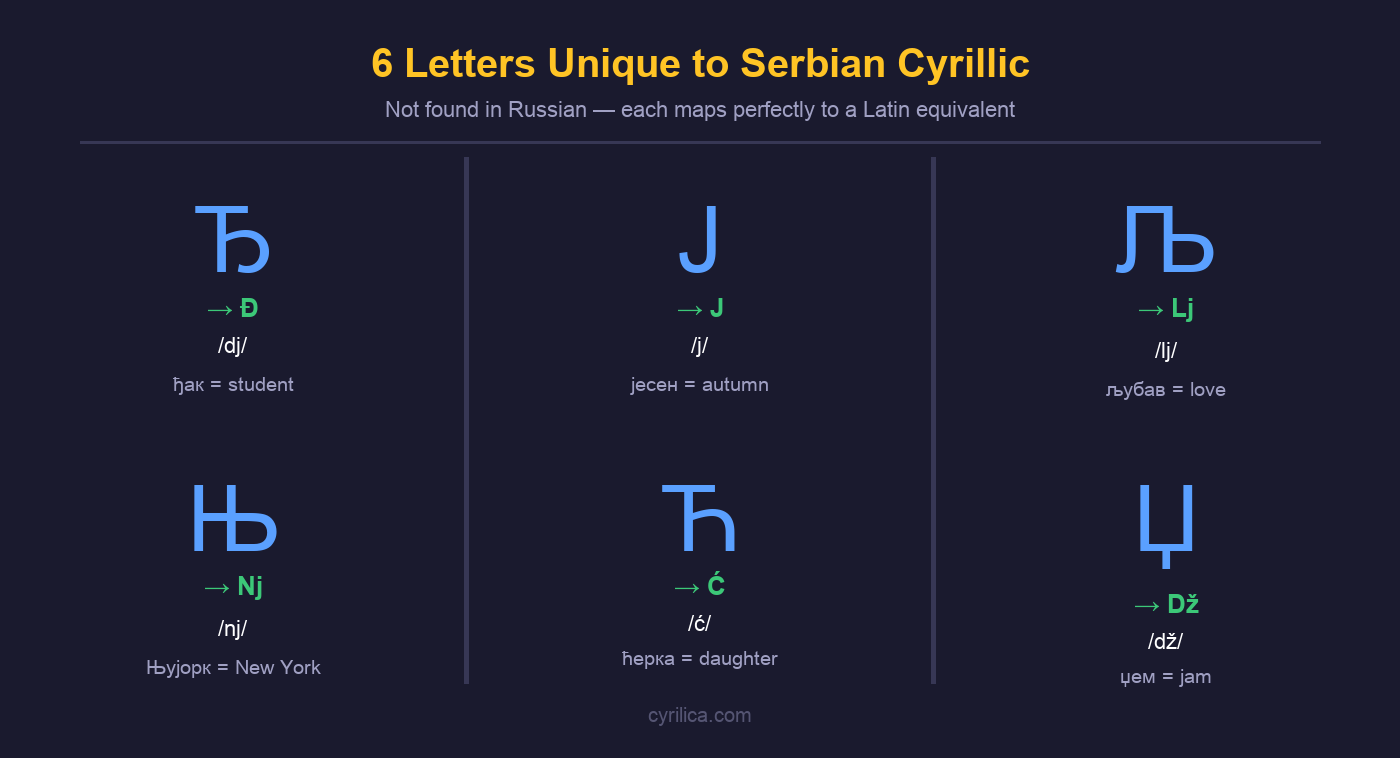
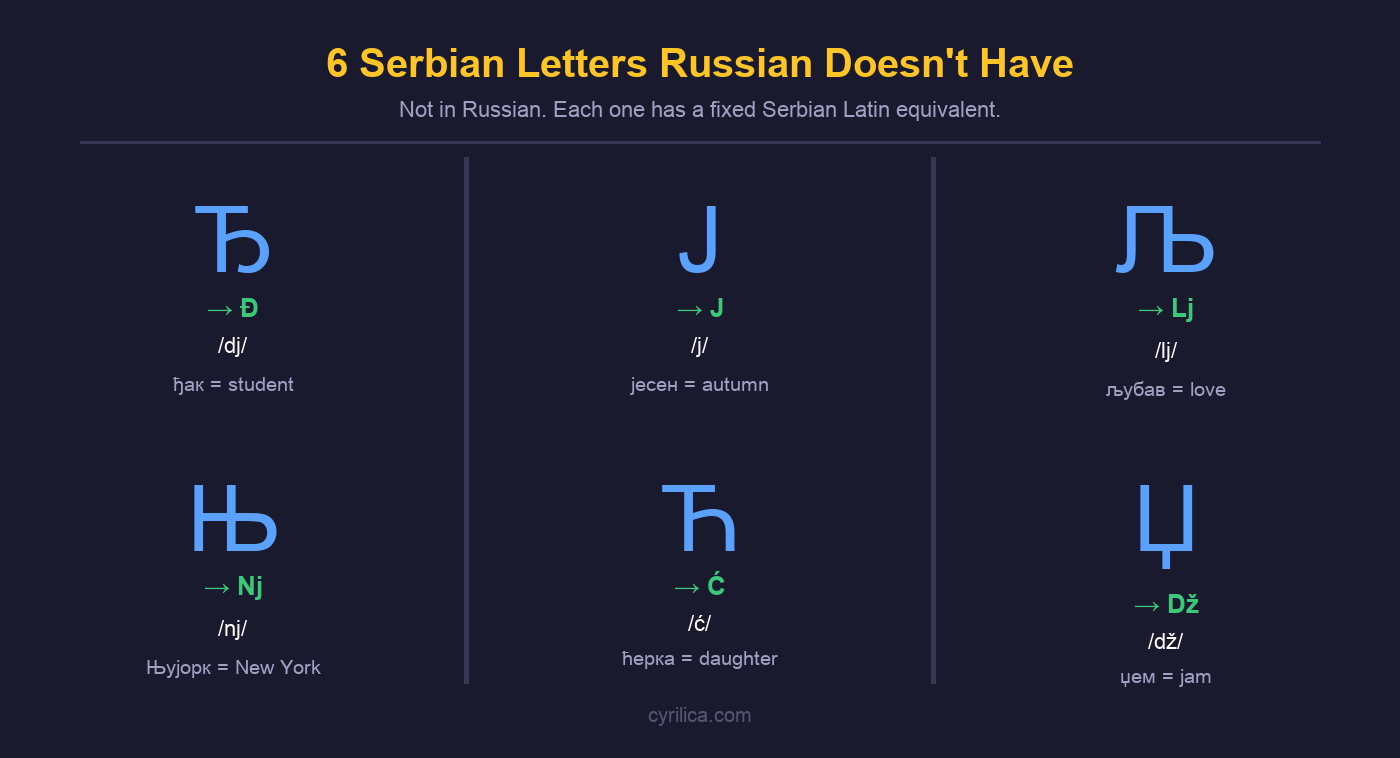
fix(images): correct baked-in claims in the four scripted images
Text baked into the comparison PNGs cannot be reached by grep, so several
claims the prose had already corrected were still being shown to readers.

ukrainian-vs-russian-alphabet.png
- "Letters that make Ukrainian unique" -> "The four letters each alphabet
  has that the other doesn't". Only Ґ is close to Ukrainian-only; Є, І and
  Ї appear in other Cyrillic alphabets.
- Column header "ONLY IN UKRAINIAN" -> "NOT IN RUSSIAN", mirroring the
  facing "NOT IN UKRAINIAN" and dropping the same overclaim.
- "Russian: об'єкт" -> "Russian: объект". The old string printed the
  Ukrainian apostrophe spelling under the Russian hard sign, contradicting
  the article's own "Russian объект becomes Ukrainian об'єкт". Source:
  Wiktionary, объект.
- "4 letters differ" -> "4 letters differ each way". The image shows four
  on each side, so eight differ in total.

serbian-cyrillic-vs-latin.png
- "Serbia officially recognizes both scripts — the only country to do so"
  -> "Serbia's constitution puts Cyrillic into official use. Latin is used
  alongside it every day." The old claim was removed from the prose in
  Batch 17 and contradicts the article. Sources: Constitution of Serbia
  Article 10, cited in the article; the article's own "In daily life,
  though, they work as interchangeable."
- "Belgrade — capital city" -> "Belgrade · capital city".

serbian-unique-letters.png
- "6 Letters Unique to Serbian Cyrillic" -> "6 Serbian Letters Russian
[…]

Changed region(s): [[0.215, 0.0607, 0.7679, 0.1517]]

diff --git a/js/core.js b/js/core.js
@@ -437,12 +437,12 @@ const ARTICLE_META = {
     'first-25-words':           { section: 'Getting Started',           published: '2026-02-20', modified: '2026-09-19', keywords: ['russian words', 'reading practice', 'first words', 'beginner russian'] },
     'easy-russian-words':       { section: 'Getting Started',           published: '2026-03-01', modified: '2026-09-19', keywords: ['easy russian', 'simple words', 'beginner vocabulary', 's-tier letters'] },
     // Alphabet Variants
-    'ukrainian-alphabet':       { section: 'Alphabet Variants',         published: '2026-05-23', modified: '2026-09-20', keywords: ['ukrainian alphabet', 'ukrainian cyrillic', 'ukrainian letters', 'cyrillic vs russian', 'ukrainian language', 'Ґ Є І Ї letters', 'learn ukrainian script'] },
+    'ukrainian-alphabet':       { section: 'Alphabet Variants',         published: '2026-05-23', modified: '2026-09-25', keywords: ['ukrainian alphabet', 'ukrainian cyrillic', 'ukrainian letters', 'cyrillic vs russian', 'ukrainian language', 'Ґ Є І Ї letters', 'learn ukrainian script'] },
     'belarusian-alphabet':      { section: 'Alphabet Variants',         published: '2026-02-22', modified: '2026-09-17', keywords: ['belarusian alphabet', 'belarusian cyrillic', '32 letters', 'eastern europe'] },
-    'bulgarian-alphabet':       { section: 'Alphabet Variants',         published: '2026-05-23', modified: '2026-09-18', keywords: ['bulgarian alphabet', 'bulgarian cyrillic', '30 letters', 'cyrillic origin', 'bulgarian letters', 'learn bulgarian'] },
+    'bulgarian-alphabet':       { section: 'Alphabet Variants',         published: '2026-05-23', modified: '2026-09-25', keywords: ['bulgarian alphabet', 'bulgarian cyrillic', '30 letters', 'cyrillic origin', 'bulgarian letters', 'learn bulgarian'] },
     'montenegrin-alphabet':     { section: 'Alphabet Variants',         published: '2026-02-22', modified: '2026-09-18', keywords: ['montenegrin alphabet', 'newest cyrillic', 'montenegrin language', 'balkan alphabet'] },
     'cyrillic-letters-not-in-russian': { section: 'Alphabet Variants',         published: '2026-06-21', modified: '2026-09-20', keywords: ['cyrillic letters not in russian', 'non-russian cyrillic', 'ukrainian serbian macedonian letters', 'cyrillic alphabet differences'] },
-    'serbian-cyrillic-vs-latin':{ section: 'Alphabet Variants',         published: '2026-02-24', modified: '2026-09-18', keywords: ['serbian cyrillic', 'serbian latin', 'digraphia', 'dual script'] },
+    'serbian-cyrillic-vs-latin':{ section: 'Alphabet Variants',         published: '2026-02-24', modified: '2026-09-25', keywords: ['serbian cyrillic', 'serbian latin', 'digraphia', 'dual script'] },
     // History & Culture
     'lost-letters':             { section: 'History & Culture',         published: '2026-02-16', modified: '2026-09-20', keywords: ['lost letters', 'extinct characters', 'cyrillic history', 'old church slavonic'] },
     'glagolitic':               { section: 'History & Culture',         published: '2026-02-16', modified: '2026-09-18', keywords: ['glagolitic', 'old alphabet', 'saints cyril methodius', 'slavic writing'] },

diff --git a/js/articles.js b/js/articles.js
@@ -948,7 +948,7 @@ const ARTICLES = [
 
             <p>If you already know Russian Cyrillic, you can read most Ukrainian text. You'll recognize the majority of letters and can sound out words, even if you don't understand them. But four letters will stop you immediately, specifically the ones Russian doesn't have.</p>
 
-            <h3>The Four Letters Only Ukrainian Has</h3>
+            <h3>The Four Letters Russian Doesn't Have</h3>
 
             <p>These are the letters that mark a text as Ukrainian, not Russian:</p>
 
@@ -2597,7 +2597,7 @@ const ARTICLES = [
 
             <figure class="article-image">
                 <img src="/images/serbian-unique-letters.png"
-                     alt="Chart of the 6 letters unique to Serbian Cyrillic not found in Russian: Ђ (Đ), Ј (J), Љ (Lj), Њ (Nj), Ћ (Ć), Џ (Dž) with pronunciations and example words"
+                     alt="Chart of the 6 Serbian Cyrillic letters not found in Russian: Ђ (Đ), Ј (J), Љ (Lj), Њ (Nj), Ћ (Ć), Џ (Dž) with pronunciations and example words"
                      style="max-width: 600px; width: 100%;"
                      loading="lazy">
             </figure>

diff --git a/make_ukrainian_image.py b/make_ukrainian_image.py
@@ -32,7 +32,7 @@ ua = [
     [("І", "/i/",   "іти = to go"),      ("Ї", "/yi/",  "їжа = food")],
 ]
 ru = [
-    [("Ё", "/yo/",      "Russian: ёж"),  ("Ъ", "hard sign", "Russian: об'єкт")],
+    [("Ё", "/yo/",      "Russian: ёж"),  ("Ъ", "hard sign", "Russian: объект")],
     [("Ы", "/y/",       "Russian: мы"),  ("Э", "/e/",       "Russian: это")],
 ]
 
@@ -93,8 +93,8 @@ mid_x = W // 2
 draw.text((cx("Ukrainian Cyrillic vs Russian Cyrillic", font_title, W // 2), TITLE_Y),
           "Ukrainian Cyrillic vs Russian Cyrillic", font=font_title, fill=GOLD)
 
-draw.text((cx("Letters that make Ukrainian unique", font_sub, W // 2), SUB_Y),
-          "Letters that make Ukrainian unique", font=font_sub, fill=SUBTEXT)
+draw.text((cx("The four letters each alphabet has that the other doesn't", font_sub, W // 2), SUB_Y),
+          "The four letters each alphabet has that the other doesn't", font=font_sub, fill=SUBTEXT)
 
 # Horizontal rule
 draw.rectangle([(40 * SCALE, HDR_DIV_Y), (W - 40 * SCALE, HDR_DIV_Y + SCALE)], fill=DIVIDER)
@@ -103,8 +103,8 @@ draw.rectangle([(40 * SCALE, HDR_DIV_Y), (W - 40 * SCALE, HDR_DIV_Y + SCALE)], f
 draw.rectangle([(mid_x - SCALE, HDR_DIV_Y), (mid_x + SCALE, NOTE_Y - 8 * SCALE)], fill=DIVIDER)
 
 # Section headers
-draw.text((cx("ONLY IN UKRAINIAN", font_col_hdr, W // 4),     COL_HDR_Y),
-          "ONLY IN UKRAINIAN", font=font_col_hdr, fill=UA_COL)
+draw.text((cx("NOT IN RUSSIAN", font_col_hdr, W // 4),     COL_HDR_Y),
+          "NOT IN RUSSIAN", font=font_col_hdr, fill=UA_COL)
 draw.text((cx("NOT IN UKRAINIAN",  font_col_hdr, 3 * W // 4), COL_HDR_Y),
           "NOT IN UKRAINIAN",  font=font_col_hdr, fill=RU_COL)
 
@@ -127,7 +127,7 @@ for col_i, q_x in enumerate([Q[2], Q[3]]):
     draw_cell(*ru[1][col_i], q_x, ROW_1_Y, RU_COL)
 
 # Note + watermark
-note = "Ukrainian = 33 letters  ·  Russian = 33 letters  ·  4 letters differ"
+note = "Ukrainian = 33 letters  ·  Russian = 33 letters  ·  4 letters differ each way"
 draw.text((cx(note, font_note, W // 2), NOTE_Y), note, font=font_note, fill=SUBTEXT)
 draw.text((cx("cyrilica.com", font_wm, W // 2), WM_Y), "cyrilica.com", font=font_wm, fill=WATERMARK)
 

diff --git a/make_bulgarian_image.py b/make_bulgarian_image.py
@@ -25,7 +25,7 @@ font_example = ImageFont.truetype(UNI,                       11 * SCALE)
 font_note    = ImageFont.truetype(SUPP + "Arial.ttf",        10 * SCALE)
 font_wm      = ImageFont.truetype(SUPP + "Arial.ttf",        10 * SCALE)
 
-# Left side (UNIQUE IN BULGARIAN): 2 rows, single column at W//4
+# Left side (DIFFERENT IN BULGARIAN): 2 rows, single column at W//4
 # Right side (NOT IN BULGARIAN): row 0 = Ё at 5W//8, Ы at 7W//8; row 1 = Э centered at 3W//4
 left = [
     ("Ъ", "/ǎ/",   "ъгъл = corner"),
@@ -84,14 +84,14 @@ mid_x = W // 2
 draw.text((cx("Bulgarian Cyrillic vs Russian Cyrillic", font_title, W // 2), TITLE_Y),
           "Bulgarian Cyrillic vs Russian Cyrillic", font=font_title, fill=GOLD)
 
-draw.text((cx("30 letters vs 33 — what sounds different and what's missing", font_sub, W // 2), SUB_Y),
-          "30 letters vs 33 — what sounds different and what's missing", font=font_sub, fill=SUBTEXT)
+draw.text((cx("30 letters vs 33. What sounds different and what's missing.", font_sub, W // 2), SUB_Y),
+          "30 letters vs 33. What sounds different and what's missing.", font=font_sub, fill=SUBTEXT)
 
 draw.rectangle([(40 * SCALE, HDR_DIV_Y), (W - 40 * SCALE, HDR_DIV_Y + SCALE)], fill=DIVIDER)
 draw.rectangle([(mid_x - SCALE, HDR_DIV_Y), (mid_x + SCALE, NOTE_Y - 8 * SCALE)], fill=DIVIDER)
 
-draw.text((cx("UNIQUE IN BULGARIAN", font_col_hdr, W // 4),     COL_HDR_Y),
-          "UNIQUE IN BULGARIAN", font=font_col_hdr, fill=BG_COL)
+draw.text((cx("DIFFERENT IN BULGARIAN", font_col_hdr, W // 4),     COL_HDR_Y),
+          "DIFFERENT IN BULGARIAN", font=font_col_hdr, fill=BG_COL)
 draw.text((cx("NOT IN BULGARIAN",    font_col_hdr, 3 * W // 4), COL_HDR_Y),
           "NOT IN BULGARIAN",    font=font_col_hdr, fill=RU_COL)
 

diff --git a/make_serbian_letters_image.py b/make_serbian_letters_image.py
@@ -84,11 +84,11 @@ div1_x = W // 3
 div2_x = 2 * W // 3
 
 # ── draw ───────────────────────────────────────────────────────────
-draw.text((cx("6 Letters Unique to Serbian Cyrillic", font_title, W // 2), TITLE_Y),
-          "6 Letters Unique to Serbian Cyrillic", font=font_title, fill=GOLD)
+draw.text((cx("6 Serbian Letters Russian Doesn't Have", font_title, W // 2), TITLE_Y),
+          "6 Serbian Letters Russian Doesn't Have", font=font_title, fill=GOLD)
 
-draw.text((cx("Not found in Russian — each maps perfectly to a Latin equivalent", font_sub, W // 2), SUB_Y),
-          "Not found in Russian — each maps perfectly to a Latin equivalent", font=font_sub, fill=SUBTEXT)
+draw.text((cx("Not in Russian. Each one has a fixed Serbian Latin equivalent.", font_sub, W // 2), SUB_Y),
+          "Not in Russian. Each one has a fixed Serbian Latin equivalent.", font=font_sub, fill=SUBTEXT)
 
 draw.rectangle([(40 * SCALE, HDR_DIV_Y), (W - 40 * SCALE, HDR_DIV_Y + SCALE)], fill=DIVIDER)
 

diff --git a/make_serbian_image.py b/make_serbian_image.py
@@ -26,7 +26,7 @@ font_wm      = ImageFont.truetype(SUPP + "Arial.ttf",       10 * SCALE)
 
 # (Cyrillic, Latin, English meaning)
 pairs = [
-    ("Београд",      "Beograd",      "Belgrade — capital city"),
+    ("Београд",      "Beograd",      "Belgrade · capital city"),
     ("Србија",       "Srbija",       "Serbia"),
     ("добро јутро",  "dobro jutro",  "good morning"),
     ("хвала",        "hvala",        "thank you"),
@@ -101,7 +101,7 @@ for i, (cyr, lat, meaning) in enumerate(pairs):
     draw.text((cx(meaning, font_meaning, W // 2), y + WORD_H + 4 * SCALE),
               meaning, font=font_meaning, fill=SUBTEXT)
 
-note = "Serbia officially recognizes both scripts — the only country to do so"
+note = "Serbia's constitution puts Cyrillic into official use. Latin is used alongside it every day."
 draw.text((cx(note, font_meaning, W // 2), NOTE_Y), note, font=font_meaning, fill=SUBTEXT)
 draw.text((cx("cyrilica.com", font_wm, W // 2), WM_Y), "cyrilica.com", font=font_wm, fill=WATERMARK)
 
